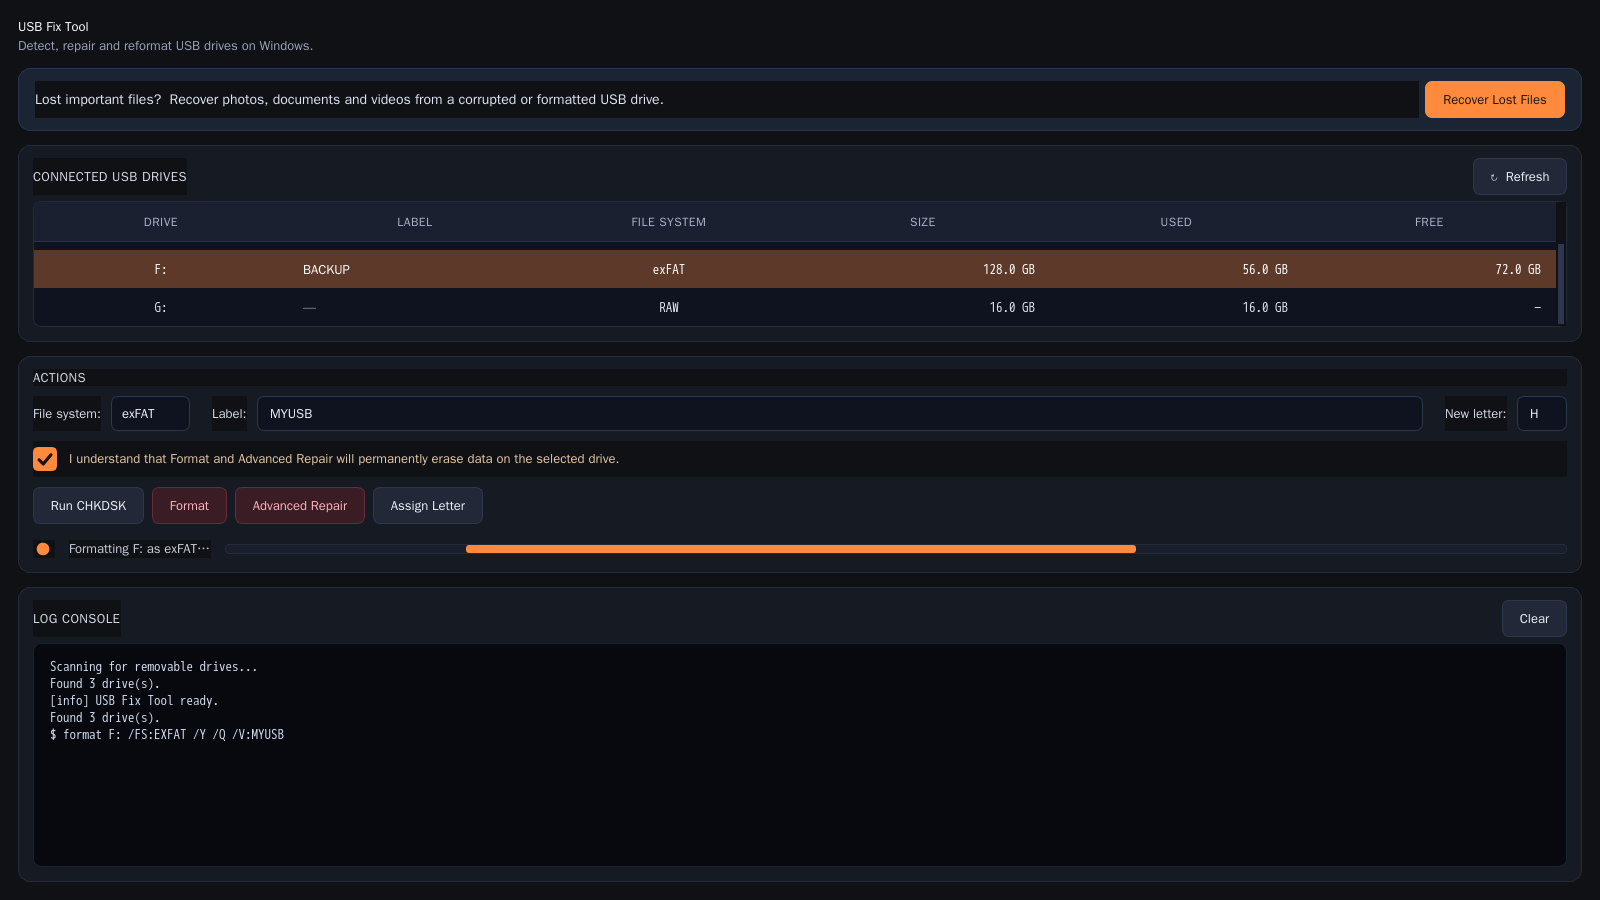
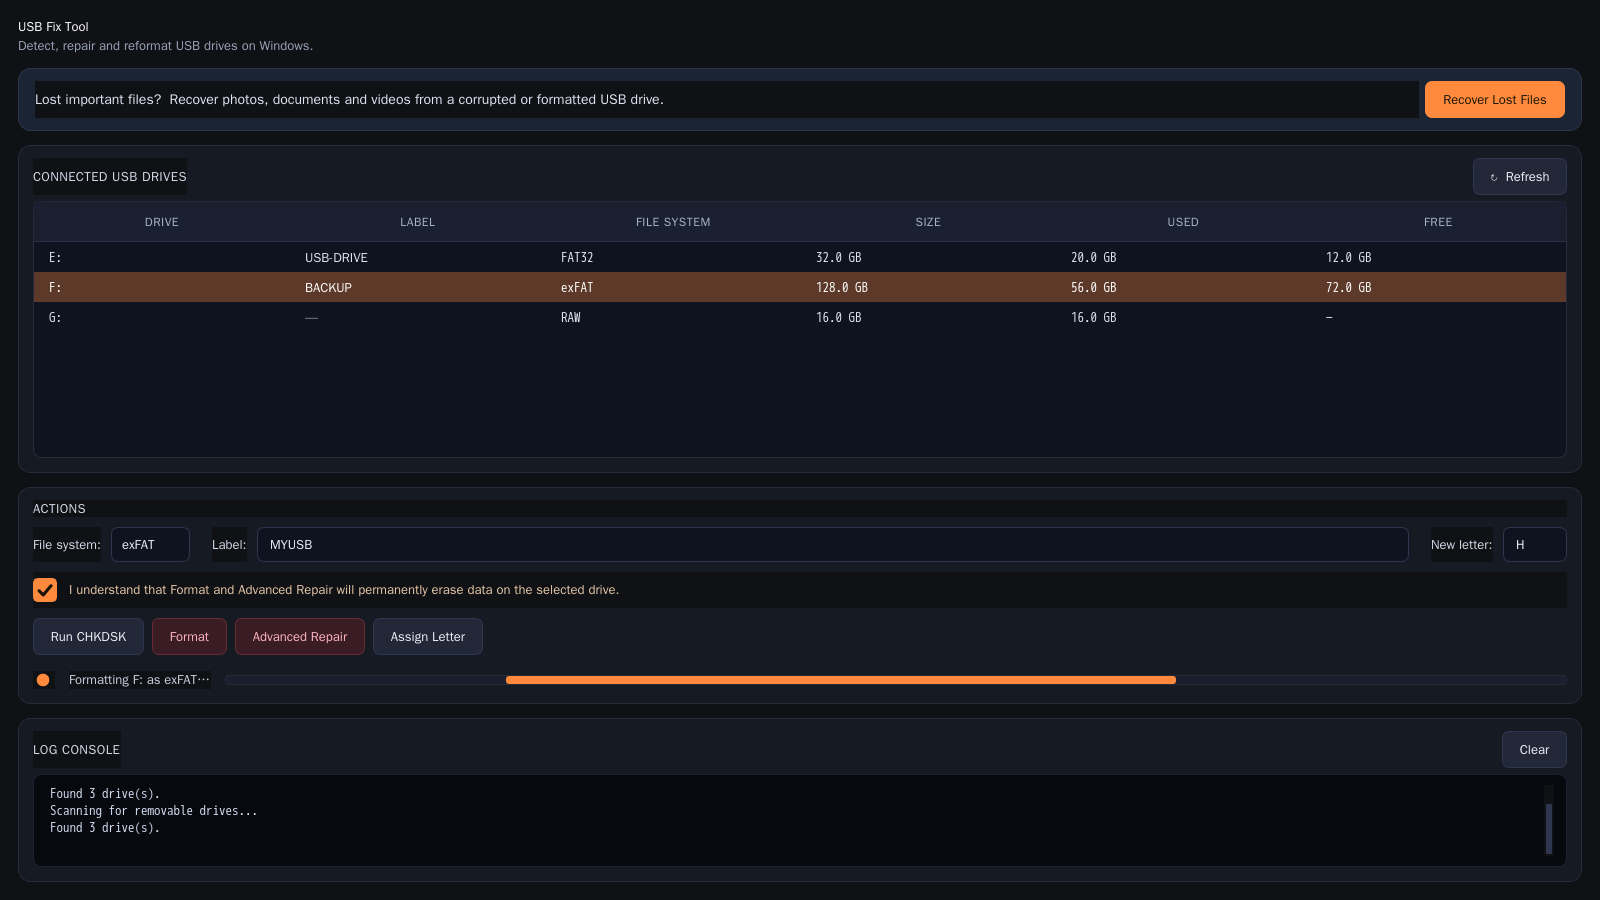
auto-commit for 303223d2-b7c3-4b9c-8bff-c81c2e2bfefa

diff --git a/usb-fix-tool/desktop/main.py b/usb-fix-tool/desktop/main.py
@@ -97,8 +97,9 @@ class MainWindow(QMainWindow):
     def __init__(self) -> None:
         super().__init__()
         self.setWindowTitle(f"USB Fix Tool  v{APP_VERSION}")
-        self.resize(960, 680)
-        self.setMinimumSize(720, 560)   # responsive floor
+        self.resize(960, 720)
+        # Floor that fits 3 visible drive rows + full action card + log
+        self.setMinimumSize(720, 640)
         self._thread: Optional[QThread] = None
         self._worker: Optional[CommandWorker] = None
         self._devices: List[usb_utils.UsbDevice] = []
@@ -123,9 +124,9 @@ class MainWindow(QMainWindow):
 
         root.addWidget(self._build_header())
         root.addWidget(self._build_promo())
-        root.addWidget(self._build_device_section(), stretch=2)
-        root.addWidget(self._build_action_section())
-        root.addWidget(self._build_log_section(), stretch=3)
+        root.addWidget(self._build_device_section(), stretch=2)  # table
+        root.addWidget(self._build_action_section())             # natural
+        root.addWidget(self._build_log_section(), stretch=1)     # log
 
     def _build_header(self) -> QWidget:
         title = QLabel("USB Fix Tool")
@@ -178,6 +179,9 @@ class MainWindow(QMainWindow):
     def _build_device_section(self) -> QWidget:
         wrap = QFrame()
         wrap.setObjectName("card")
+        # Guarantee the table card always has room for header + a few
+        # rows even when the window is squeezed to its minimum.
+        wrap.setMinimumHeight(160)
         v = QVBoxLayout(wrap)
         v.setContentsMargins(14, 12, 14, 14)
 
@@ -212,8 +216,9 @@ class MainWindow(QMainWindow):
         self.table.horizontalHeader().setSectionResizeMode(
             QHeaderView.ResizeMode.Stretch
         )
+        self.table.horizontalHeader().setStretchLastSection(True)
         self.table.horizontalHeader().setHighlightSections(False)
-        self.table.verticalHeader().setDefaultSectionSize(38)
+        self.table.verticalHeader().setDefaultSectionSize(30)
         # Let the table fill the device card vertically/horizontally
         self.table.setSizePolicy(
             QSizePolicy.Policy.Expanding, QSizePolicy.Policy.Expanding
@@ -256,7 +261,10 @@ class MainWindow(QMainWindow):
         self.letter_input = QLineEdit()
         self.letter_input.setPlaceholderText("F")
         self.letter_input.setMaxLength(1)
-        self.letter_input.setFixedWidth(50)
+        # Use min/max width so the field stays narrow without using
+        # setFixedWidth (which fights the parent layout on resize).
+        self.letter_input.setMinimumWidth(44)
+        self.letter_input.setMaximumWidth(64)
         row1.addWidget(self.letter_input)
         outer.addLayout(row1)
 
@@ -302,7 +310,11 @@ class MainWindow(QMainWindow):
         self.progress.setTextVisible(False)
         self.progress.setRange(0, 1)
         self.progress.setValue(0)
-        self.progress.setFixedHeight(8)
+        # Slim 8 px height enforced via QSS (min/max-height) so the
+        # widget still cooperates with parent layouts on resize.
+        self.progress.setSizePolicy(
+            QSizePolicy.Policy.Expanding, QSizePolicy.Policy.Fixed
+        )
 
         status_row.addWidget(self.status_dot)
         status_row.addWidget(self.status_label)
@@ -618,19 +630,23 @@ class MainWindow(QMainWindow):
         self.table.setRowCount(len(self._devices))
 
         mono = QFont("Consolas", 10)
+        # Per spec: every cell uses left + vertical-centre alignment so
+        # rows never appear pushed downward at any window size.
+        align = int(Qt.AlignmentFlag.AlignLeft
+                    | Qt.AlignmentFlag.AlignVCenter)
+
         for r, dev in enumerate(self._devices):
-            # (text, alignment, mono?)
             cells = [
-                (dev.drive_letter, Qt.AlignmentFlag.AlignCenter, True),
-                (dev.label or "—", Qt.AlignmentFlag.AlignLeft, False),
-                (dev.file_system or "—", Qt.AlignmentFlag.AlignCenter, True),
-                (dev.size_human, Qt.AlignmentFlag.AlignRight, True),
-                (dev.used_human, Qt.AlignmentFlag.AlignRight, True),
-                (dev.free_human, Qt.AlignmentFlag.AlignRight, True),
+                (dev.drive_letter, True),
+                (dev.label or "—", False),
+                (dev.file_system or "—", True),
+                (dev.size_human, True),
+                (dev.used_human, True),
+                (dev.free_human, True),
             ]
-            for c, (val, align, is_mono) in enumerate(cells):
+            for c, (val, is_mono) in enumerate(cells):
                 item = QTableWidgetItem(str(val))
-                item.setTextAlignment(int(align | Qt.AlignmentFlag.AlignVCenter))
+                item.setTextAlignment(align)
                 if is_mono:
                     item.setFont(mono)
                 self.table.setItem(r, c, item)
